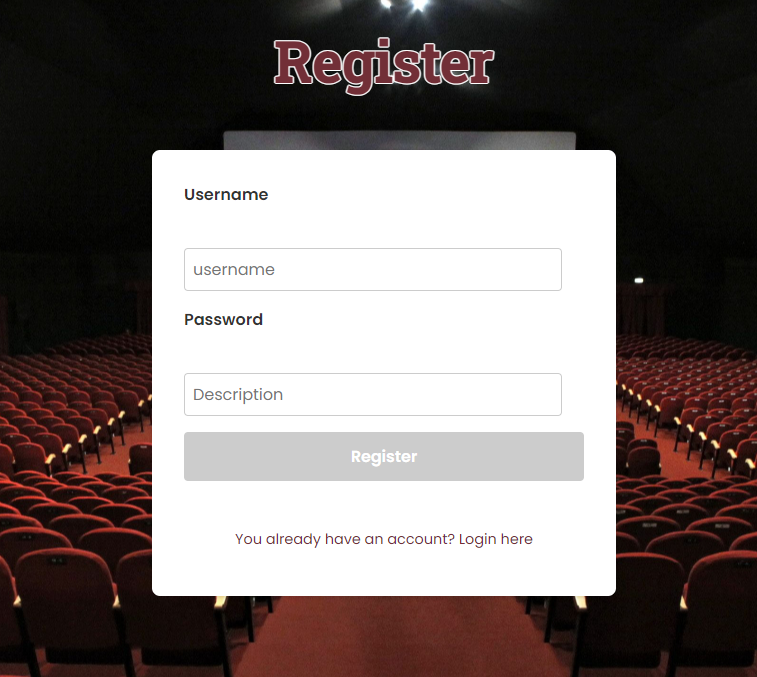
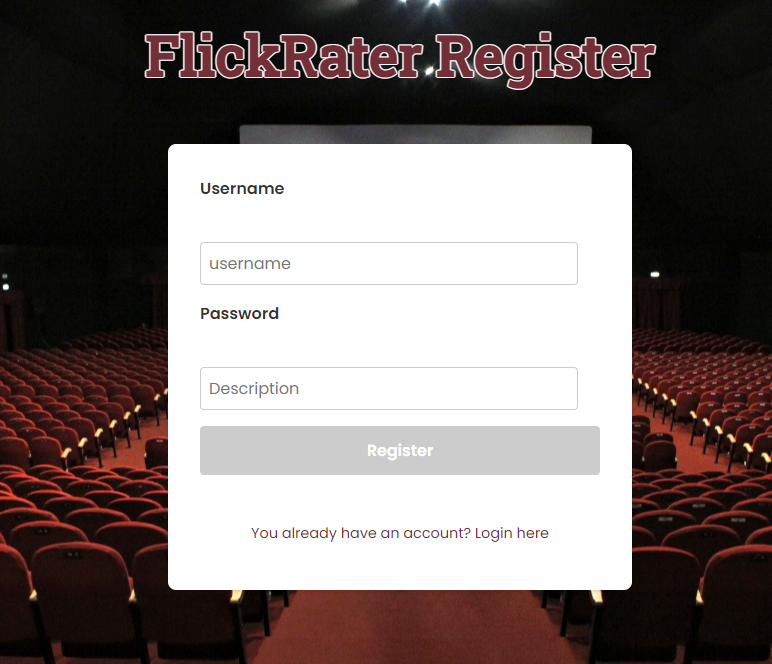
within auth.js amended text to FlickRater login and register

diff --git a/src/components/auth.js b/src/components/auth.js
@@ -42,7 +42,7 @@ function Auth() {
   return (
     <div className="Auth">
       <header className="Auth-header">
-        {isLoginView ? <h1>Login</h1> : <h1>Register</h1>}
+        {isLoginView ? <h1>FlickRater Login</h1> : <h1>FlickRater Register</h1>}
       </header>
       <div className="login-container">
         <label htmlFor="username">Username</label>
